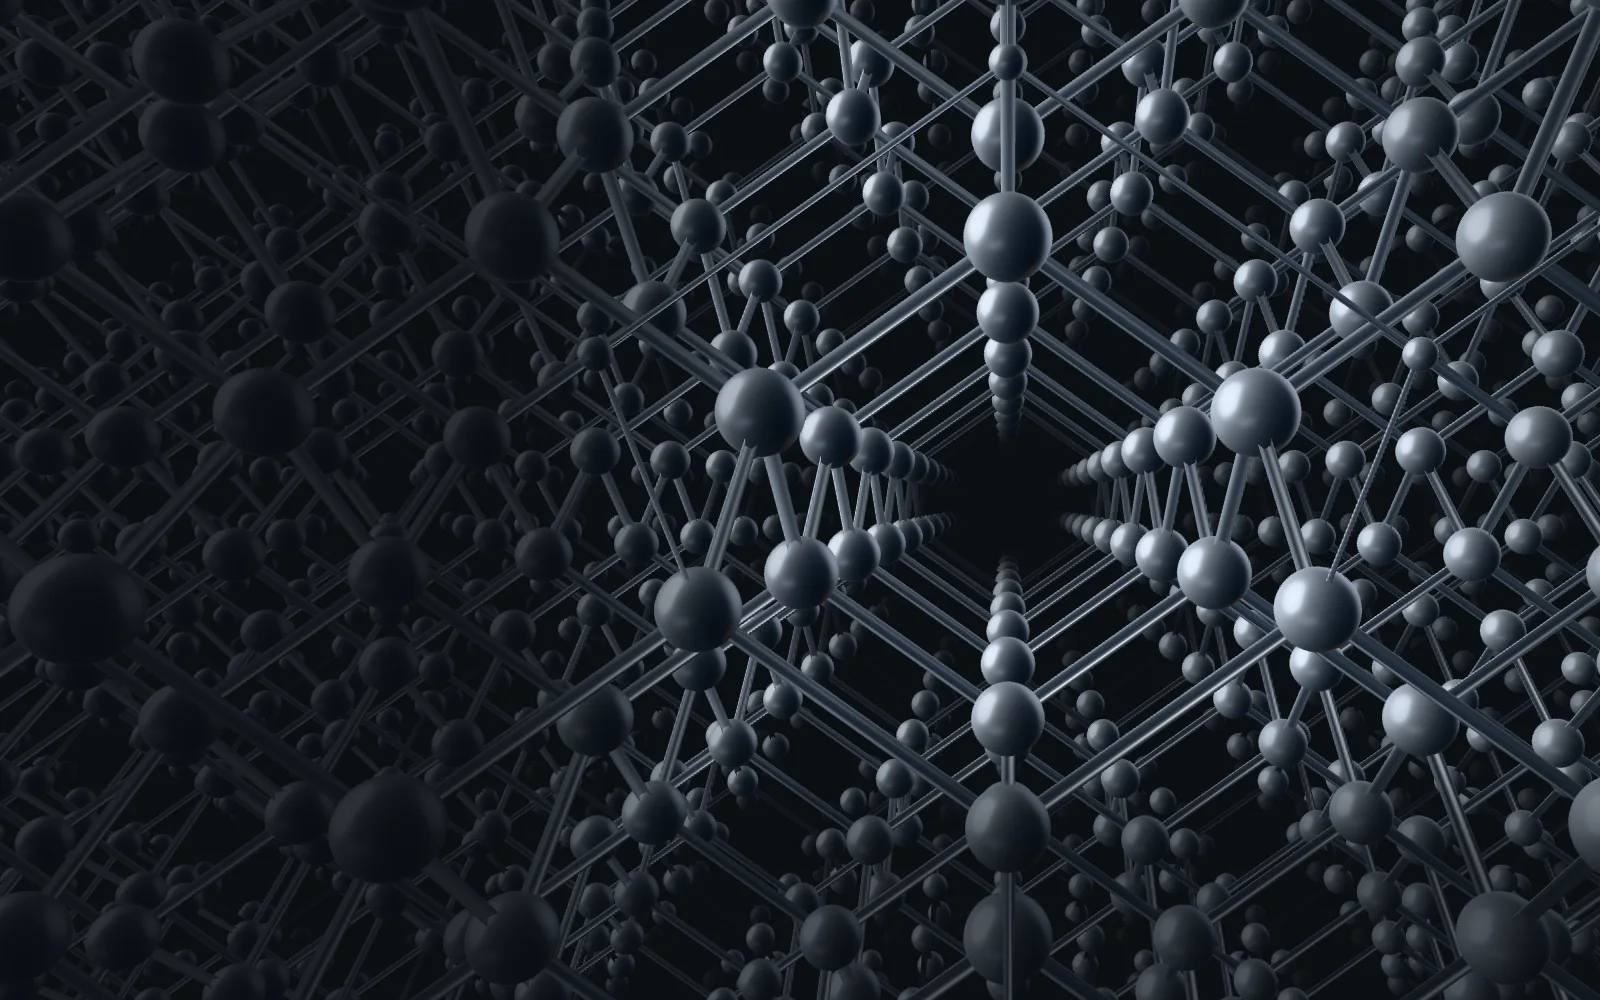
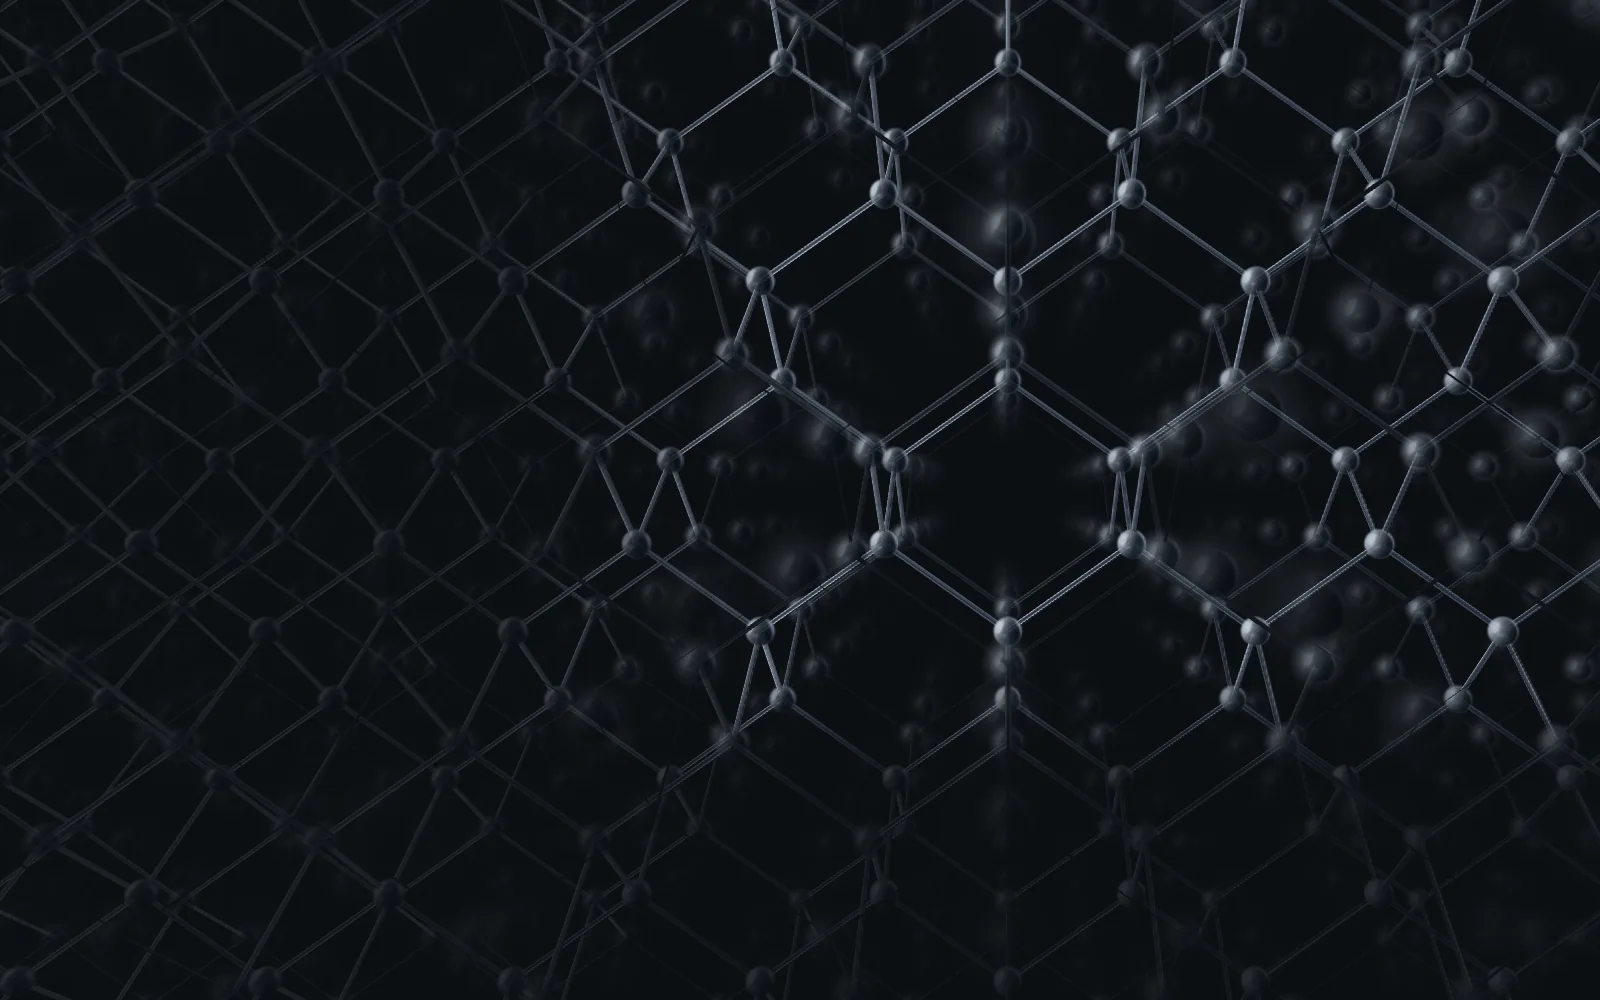
Lattice polish: smaller atoms, depth of field, a front that crosses the frame, legible stage strip
Atoms 0.022 nm and bonds 0.0045 nm. One sharp plane at the scale bar's 2 nm: out-of-focus
atoms become soft blended discs (thin-lens blur, drawn far to near), out-of-focus bonds thin
away, which also removes the end-on column stacking. The front is now a nearly horizontal
plane whose hot edge spans the whole width, low in the in-focus plane at chapter progress .25
and high at .5 (node test). Graphite halo under the stage strip, stronger floor veil, posters
recaptured from the new final frame.

diff --git a/src/scripts/scenes/lattice.js b/src/scripts/scenes/lattice.js
@@ -8,28 +8,34 @@
  * for two triangles each, shaded with a per-pixel sphere normal.
  */
 import {
-  Color, CylinderGeometry, Fog, InstancedBufferAttribute, InstancedBufferGeometry, Mesh,
+  Color, CustomBlending, CylinderGeometry, Fog, OneMinusSrcAlphaFactor, SrcAlphaFactor, InstancedBufferAttribute, InstancedBufferGeometry, Mesh,
   MeshStandardMaterial, PerspectiveCamera, PlaneGeometry, Scene, ShaderMaterial, Vector2, Vector3, Vector4,
 } from 'three';
-import { buildLattice, latticeCamera, latticeFront, scaleBar, BOND, FOCUS } from './lattice-math.js';
+import { buildLattice, latticeCamera, latticeFront, scaleBar, BOND, CHANNEL_DIR, FOCUS } from './lattice-math.js';
 
 const BG = new Color('#0b0e12');
 const BG_SRGB = [11 / 255, 14 / 255, 18 / 255]; // raw shader output is already sRGB
 /** Level of detail per profile lod: fog distance in nm (the block is cut to what the fog lets through). */
 const LOD = { high: { far: 4.4 }, low: { far: 3.8 } };
-const ATOM_RADIUS = .034, BOND_RADIUS = .007, BAND = .3, EXPOSURE = 1;
+const ATOM_RADIUS = .022, BOND_RADIUS = .0045, BAND = .3, EXPOSURE = 1;
+/**
+ * Depth of field: one sharp plane at FOCUS (the plane the scale bar is true for). Thin lens: the
+ * blur, measured as a radius in the scene at the object's own depth, is APERTURE * |z - focus| / focus.
+ */
+const APERTURE = .07;
 const AMBER = new Color('#d98a4a'); // redder than the CSS amber: dimmed by fog it turns brown, not olive
 
 // Shared vertex code: lattice position -> current position for the front and grain pose.
 const COMMON = /* glsl */`
-uniform vec4 uFront; uniform float uBand, uHeat, uTime, uRadius, uBond;
-varying float vHeat, vOrder;
+uniform vec4 uFront; uniform float uBand, uHeat, uTime, uRadius, uBond, uFocus, uAperture;
+varying float vHeat, vOrder, vSharp;
+float blurAt(float z) { return uAperture * abs(z - uFocus) / uFocus; }
 vec3 rotateAxis(vec3 v, vec3 k, float a) { float c = cos(a), s = sin(a); return v * c + cross(k, v) * s + k * dot(k, v) * (1.0 - c); }
 // t: 1 behind the front (monocrystal), 0 ahead of it (grain pose).
 vec3 placeAtom(vec3 lattice, vec3 centre, vec4 rot, float seed, out float t, out float heat) {
   float d = dot(lattice, uFront.xyz) - uFront.w;
   t = 1.0 - smoothstep(-uBand, uBand, d);
-  heat = exp(-d * d / (.1 * uBand)) * uHeat; // the hot band is narrower than the blend
+  heat = exp(-d * d / .02) * uHeat; // the hot band (~0.1 nm) is narrower than the blend
   vec3 p = centre + rotateAxis(lattice - centre, rot.xyz, rot.w * (1.0 - t));
   // Agitation in the hot band only: a liquid-like jitter, on the ambient clock.
   return p + heat * .03 * sin(vec3(3.1, 2.7, 3.7) * uTime + seed * vec3(40.0, 17.0, 29.0));
@@ -64,10 +70,10 @@ function patch(material, uniforms, key, code) {
       .replace('#include <begin_vertex>', code.position)
       .replace('#include <project_vertex>', code.project ?? '#include <project_vertex>');
     shader.fragmentShader = shader.fragmentShader
-      .replace('#include <common>', `#include <common>\nvarying float vHeat, vOrder;\nuniform vec3 uAmber; uniform vec2 uViewport; uniform vec4 uVeil; uniform vec3 uFloor; uniform vec2 uCentre;\n${code.fragmentHead ?? ''}`)
+      .replace('#include <common>', `#include <common>\nvarying float vHeat, vOrder, vSharp;\nuniform vec3 uAmber; uniform vec2 uViewport; uniform vec4 uVeil; uniform vec3 uFloor; uniform vec2 uCentre;\n${code.fragmentHead ?? ''}`)
       .replace('#include <normal_fragment_begin>', code.fragmentNormal ?? '#include <normal_fragment_begin>')
       .replace('#include <color_fragment>', '#include <color_fragment>\ndiffuseColor.rgb *= mix(.5, 1.0, vOrder); // the ordered crystal reads brighter')
-      .replace('#include <emissivemap_fragment>', '#include <emissivemap_fragment>\ntotalEmissiveRadiance += uAmber * vHeat;')
+      .replace('#include <emissivemap_fragment>', '#include <emissivemap_fragment>\ntotalEmissiveRadiance += uAmber * vHeat * 1.8;')
       .replace('#include <fog_fragment>', FOG.replace('BOND_FOG', code.fog ?? ''));
   };
   return material;
@@ -78,20 +84,27 @@ const ATOM_SHADER = {
   normal: `float t, heat; vec3 centreNow = placeAtom(aLattice, aCentre, aRot, aInfo.y, t, heat);
     vHeat = heat; vOrder = t; vec3 objectNormal = vec3(0.0, 0.0, 1.0);`,
   position: 'vec3 transformed = centreNow;',
-  // Quad facing the camera, pushed forward by the radius so bonds end inside the sphere.
+  // Quad facing the camera, pushed forward by the radius so bonds end inside the sphere, grown by
+  // the blur radius. vSharp: share of the quad that is the sharp core of the sphere.
   project: `vec4 mvCentre = modelViewMatrix * vec4(centreNow, 1.0);
     float r = uRadius * mix(aInfo.x, 1.0, t) * nearFade(centreNow);
+    float size = r + blurAt(-mvCentre.z);
+    vSharp = r / max(size, 1e-6);
     vW = normalize(-mvCentre.xyz); vU = normalize(cross(vec3(0.0, 1.0, 0.0), vW)); vV = cross(vW, vU); vImp = position.xy;
-    vec4 mvPosition = vec4(mvCentre.xyz + (vU * position.x + vV * position.y + vW) * r, 1.0);
+    vec4 mvPosition = vec4(mvCentre.xyz + (vU * position.x + vV * position.y) * size + vW * r, 1.0);
     gl_Position = projectionMatrix * mvPosition;`,
   fragmentHead: 'varying vec2 vImp; varying vec3 vU, vV, vW;',
-  // Sphere normal per pixel; the rim is antialiased through the alpha (MSAA alpha-to-coverage).
-  fragmentNormal: `float rr = dot(vImp, vImp);
-    float rim = 1.0 - smoothstep(1.0 - 1.5 * fwidth(rr), 1.0, rr);
-    if (rim <= 0.0) discard;
-    diffuseColor.a *= rim;
+  // Sharp sphere in focus; out of focus a soft disc whose light is spread over the blur
+  // (alpha ~ (r / size)^1.4, a little brighter than strict energy conservation).
+  fragmentNormal: `float rho = length(vImp);
+    float inner = min(2.0 * vSharp - 1.0, 1.0 - 1.5 * fwidth(rho));
+    float alpha = (1.0 - smoothstep(inner, 1.0, rho)) * pow(vSharp, 1.4);
+    if (alpha < .004) discard;
+    diffuseColor.a *= alpha;
+    vec2 q = vImp / max(vSharp, .05);
+    float qq = min(dot(q, q), 1.0);
     float faceDirection = 1.0;
-    vec3 normal = normalize(vU * vImp.x + vV * vImp.y + vW * sqrt(max(0.0, 1.0 - rr)));
+    vec3 normal = normalize(vU * q.x + vV * q.y + vW * sqrt(1.0 - qq));
     vec3 nonPerturbedNormal = normal;`,
 };
 const BOND_SHADER = {
@@ -101,10 +114,15 @@ const BOND_SHADER = {
     vec3 side = normalize(cross(dir, abs(dir.z) < .9 ? vec3(0.0, 0.0, 1.0) : vec3(1.0, 0.0, 0.0))), bi = cross(dir, side);
     // Bonds stretched across the front (one end still in its grain pose) are not bonds: hide them.
     float show = mix(aShow, 1.0, smoothstep(.6, .95, min(ta, tb))) * min(nearFade(pa), nearFade(pb)) * (1.0 - smoothstep(1.08, 1.3, length(axis) / uBond));
-    vHeat = .5 * max(ha, hb); vOrder = min(ta, tb); vec3 objectNormal = side * normal.x + bi * normal.z;`,
+    vHeat = .8 * max(ha, hb); vOrder = min(ta, tb);
+    vSharp = uRadius / (uRadius + blurAt(-(modelViewMatrix * vec4(.5 * (pa + pb), 1.0)).z));
+    // Well out of focus a bond thins away (a fogged but opaque bar would read as a dark stripe).
+    show *= smoothstep(.1, .3, vSharp);
+    vec3 objectNormal = side * normal.x + bi * normal.z;`,
   position: 'vec3 transformed = pa + axis * position.y + (side * position.x + bi * position.z) * uRadius * show;',
-  // Thin far bonds alias into flicker before the atoms do: they fade out earlier.
-  fog: 'fogFactor = max(fogFactor, smoothstep(fogNear, fogFar * .7, vFogDepth));',
+  // Thin bonds cannot blur cheaply: out of focus they recede into the background instead (this
+  // also keeps far bonds from aliasing into flicker).
+  fog: 'fogFactor = max(fogFactor, 1.0 - smoothstep(.12, .6, vSharp));',
 };
 
 function instanced(base, count, attributes) {
@@ -129,12 +147,16 @@ function grainArrays(lattice, atoms) {
 
 function buildMeshes(lattice, atomMaterial, bondMaterial) {
   const n = lattice.positions.length, m = lattice.pairs.length;
-  const atoms = grainArrays(lattice, Array.from({ length: n }, (_, i) => i));
+  // Blurred atoms are blended: draw them far to near along the viewing axis (the camera always
+  // looks roughly along +[110]), so soft discs composite in order without a per-frame sort.
+  const depth = lattice.positions.map(p => p[0] * CHANNEL_DIR[0] + p[1] * CHANNEL_DIR[1] + p[2] * CHANNEL_DIR[2]);
+  const order = Array.from({ length: n }, (_, i) => i).sort((i, j) => depth[j] - depth[i]);
+  const atoms = grainArrays(lattice, order);
   const info = new Float32Array(n * 2);
-  for (let i = 0; i < n; i++) { info[2 * i] = lattice.visible[i]; info[2 * i + 1] = lattice.hashes[i]; }
+  order.forEach((atom, i) => { info[2 * i] = lattice.visible[atom]; info[2 * i + 1] = lattice.hashes[atom]; });
   const quad = new PlaneGeometry(2, 2);
   const atomGeometry = instanced(quad, n, {
-    aLattice: [Float32Array.from(lattice.positions.flat()), 3], aCentre: [atoms.centre, 3], aRot: [atoms.rot, 4], aInfo: [info, 2],
+    aLattice: [Float32Array.from(order.flatMap(i => lattice.positions[i])), 3], aCentre: [atoms.centre, 3], aRot: [atoms.rot, 4], aInfo: [info, 2],
   });
   const cylinder = new CylinderGeometry(1, 1, 1, 6, 1, true).translate(0, .5, 0);
   const a = grainArrays(lattice, lattice.pairs.map(([i]) => i)), b = grainArrays(lattice, lattice.pairs.map(([, j]) => j));
@@ -156,21 +178,22 @@ export async function createLattice({ renderer, environment, seed = 14 }) {
   scene.environmentIntensity = 1;
   scene.fog = new Fog(BG, 1, LOD.high.far);
   const shared = {
-    uFront: { value: new Vector4() }, uBand: { value: BAND }, uBond: { value: BOND }, uHeat: { value: 0 }, uTime: { value: 0 },
+    uFront: { value: new Vector4() }, uBand: { value: BAND }, uFocus: { value: FOCUS }, uAperture: { value: APERTURE }, uBond: { value: BOND }, uHeat: { value: 0 }, uTime: { value: 0 },
     uAmber: { value: AMBER }, uViewport: { value: new Vector2(1, 1) }, uVeil: { value: new Vector4() }, uFloor: { value: new Vector3() }, uCentre: { value: new Vector2() },
   };
-  const atomMaterial = patch(new MeshStandardMaterial({ color: '#a3acb6', metalness: .4, roughness: .42, alphaToCoverage: true }),
+  const atomMaterial = patch(new MeshStandardMaterial({ color: '#b3bcc6', metalness: .45, roughness: .38, transparent: true }),
     { ...shared, uRadius: { value: ATOM_RADIUS } }, 'lattice-atom', ATOM_SHADER);
   const bondMaterial = patch(new MeshStandardMaterial({ color: '#7a848f', metalness: .5, roughness: .5 }),
     { ...shared, uRadius: { value: BOND_RADIUS } }, 'lattice-bond', BOND_SHADER);
-  // Dims whatever is already in the frame (the hero's face) to the page background. Drawn at
-  // the far plane after the atoms, so the depth test keeps it behind them.
+  // Dims whatever is already in the frame (the hero's face) to the page background. First in the
+  // opaque list (custom blending keeps it there), so everything of the lattice draws over it.
   const dim = new Mesh(new PlaneGeometry(2, 2), new ShaderMaterial({
-    uniforms: { uColor: { value: new Vector4() } }, transparent: true, depthWrite: false,
+    uniforms: { uColor: { value: new Vector4() } }, depthWrite: false, depthTest: false,
+    blending: CustomBlending, blendSrc: SrcAlphaFactor, blendDst: OneMinusSrcAlphaFactor,
     vertexShader: 'void main() { gl_Position = vec4(position.xy, .99999, 1.0); }',
     fragmentShader: 'uniform vec4 uColor; void main() { gl_FragColor = uColor; }',
   }));
-  dim.frustumCulled = false; dim.renderOrder = 10;
+  dim.frustumCulled = false; dim.renderOrder = -1;
   scene.add(dim);
 
   const camera = new PerspectiveCamera(40, 1, .02, LOD.high.far + 1);
@@ -218,7 +241,7 @@ export async function createLattice({ renderer, environment, seed = 14 }) {
       shared.uTime.value = time;
       renderer.getDrawingBufferSize(shared.uViewport.value);
       if (framing === 'mobile') { shared.uVeil.value.set(.36, .6, 0, .85); shared.uFloor.value.set(.2, .4, .85); }
-      else { shared.uVeil.value.set(.28, .56, 1, .85); shared.uFloor.value.set(.12, .34, .7); }
+      else { shared.uVeil.value.set(.28, .56, 1, .85); shared.uFloor.value.set(.2, .38, .85); }
       shared.uCentre.value.set(.5 + cam.shift[0] / 2, .5 + cam.shift[1] / 2);
       scene.fog.near = .5 + .9 * emerge;
       scene.fog.far = .55 + (far - .55) * emerge;

diff --git a/src/scripts/scenes/lattice-math.js b/src/scripts/scenes/lattice-math.js
@@ -120,17 +120,23 @@ export function latticeCamera(u, framing = 'desktop', drift = 0) {
 }
 
 /**
- * Crystallisation front: atoms with dot(position, normal) < offset are monocrystal. The normal
- * points to the right of the final frame (and a little up), so the front crosses the frame left to
- * right while u goes from .3 to .82 (chapter progress ~.12 to ~.78). Camera travel along the
- * channel is perpendicular to the normal, so the sweep does not depend on the glide.
- * heat: strength of the amber band, zero before and after the sweep.
+ * Crystallisation front: atoms with dot(position, normal) < offset are monocrystal. The plane is
+ * nearly horizontal (tilted 20 degrees towards the viewing axis) and contains the frame's
+ * horizontal, so its hot edge crosses the whole width of the frame and rises from the bottom
+ * to the top of the in-focus plane: lower third at chapter progress .25, upper third at .5,
+ * everything visible ordered by ~.85. The offset is measured from the camera, so the sweep does
+ * not depend on the glide. heat: strength of the amber band, zero before and after the sweep.
  */
-export const FRONT_NORMAL = normalize([.62, -.62, .3]);
-const FRONT_RANGE = [-1.8, 2.8];
+export const FRONT_NORMAL = normalize(add(scale(UP, .94), scale(CHANNEL_DIR, .34)));
+const FRONT_KEYS = [[.27, -.9], [.4, .1], [.6, .5], [.76, 1.6], [.88, 3.2]];
 export function latticeFront(u) {
-  const k = smoothstep(.3, .82, u), origin = dot(CHANNEL_POINT, FRONT_NORMAL);
-  return { normal: FRONT_NORMAL, offset: origin + FRONT_RANGE[0] + (FRONT_RANGE[1] - FRONT_RANGE[0]) * k, heat: Math.sin(Math.PI * k) ** .5 };
+  const keys = FRONT_KEYS, last = keys.length - 1;
+  let i = 0;
+  while (i < last - 1 && u > keys[i + 1][0]) i++;
+  const k = clamp((u - keys[i][0]) / (keys[i + 1][0] - keys[i][0]));
+  const local = keys[i][1] + (keys[i + 1][1] - keys[i][1]) * k;
+  const sweep = clamp((u - keys[0][0]) / (keys[last][0] - keys[0][0]));
+  return { normal: FRONT_NORMAL, offset: dot(latticeCamera(u).position, FRONT_NORMAL) + local, heat: sweep > 0 && sweep < 1 ? Math.sin(Math.PI * sweep) ** .35 : 0 };
 }
 
 /** The camera poses the block must cover: the whole path, both framings' extents. */

diff --git a/src/index.html b/src/index.html
@@ -70,7 +70,7 @@
       </picture>
       <div class="lattice-legend">
         <p class="lattice-scale" id="lattice-scale" hidden><i></i><span>0,5 nm</span></p>
-        <p class="lattice-note">Model kulkowo-pręcikowy. Atomy nie są kulkami, a kryształ rośnie z roztopionego krzemu; ruch frontu jest umowny. Podziałka dotyczy płaszczyzny 2 nm przed kamerą.</p>
+        <p class="lattice-note">Model kulkowo-pręcikowy. Atomy nie są kulkami, a kryształ rośnie z roztopionego krzemu; ruch frontu jest umowny. Podziałka dotyczy ostrej płaszczyzny, 2 nm przed kamerą.</p>
       </div>
       <ol class="process-strip" aria-label="Etapy przygotowania materiału">
         <li data-process="0"><span>01</span>Kwarc</li><li data-process="1"><span>02</span>Oczyszczanie</li><li data-process="2"><span>03</span>Monokryształ</li><li data-process="3"><span>04</span>Płytka</li>

diff --git a/src/styles.css b/src/styles.css
@@ -353,4 +353,6 @@ html[data-motion=full][data-compact=true] .stage{height:100vh;height:100svh;min-
 .lattice-scale{display:flex;align-items:center;gap:12px;font-size:10px;letter-spacing:1.2px;color:#c4c8cc}
 .lattice-scale[hidden]{display:none}
 .lattice-scale i{display:block;height:5px;border:1px solid #c4c8cc;border-top:0}
+/* The stage strip sits over the moving lattice: a graphite halo keeps its labels legible. */
+html[data-renderer=webgl] #materia .process-strip{text-shadow:0 0 3px #0b0e12,0 1px 12px #0b0e12,0 0 24px #0b0e12}
 @media(max-width:759px){.lattice-legend{right:var(--pad);width:auto;bottom:calc(12.5% + 52px);font-size:8px}}
